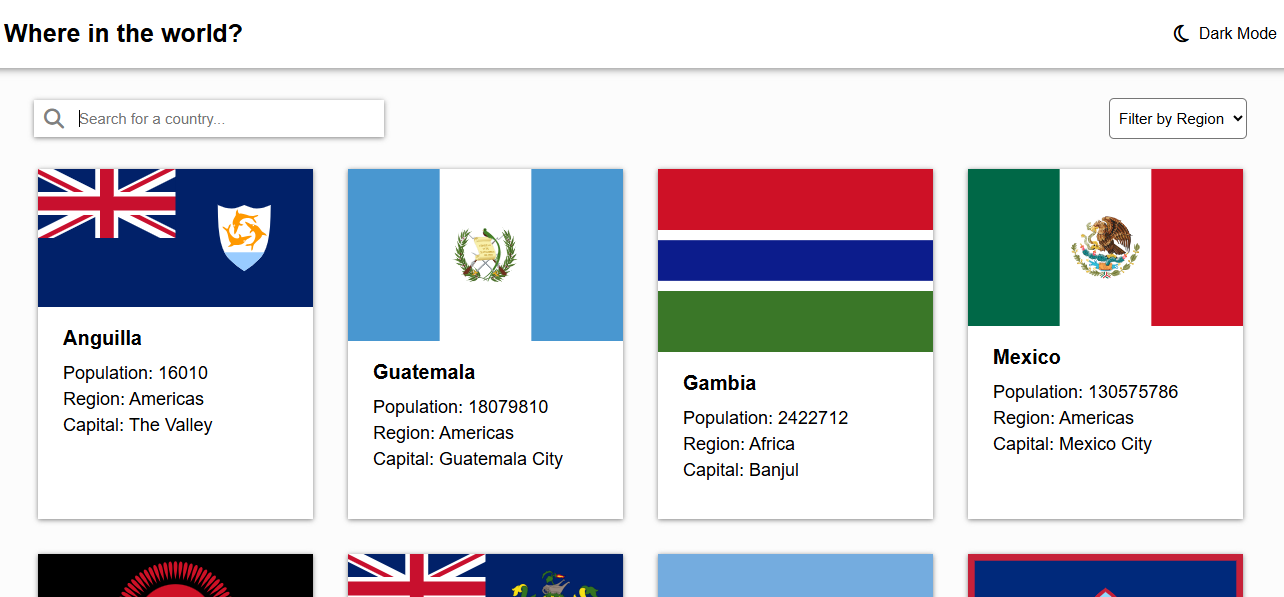
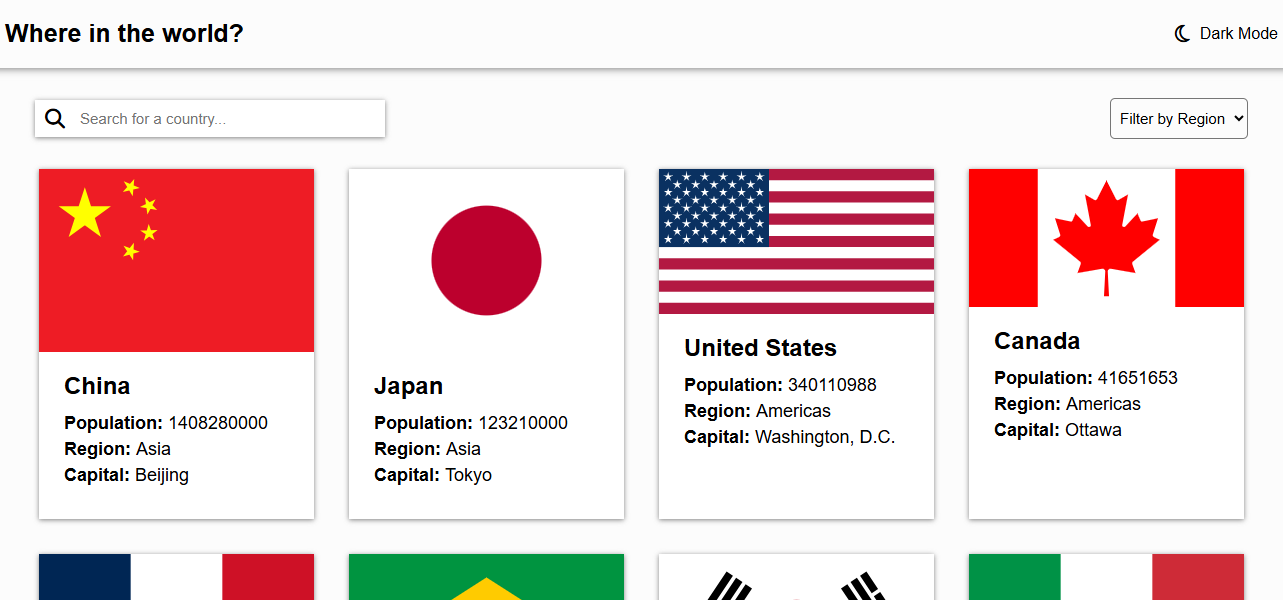
Pequenas alterações no layout do site

diff --git a/css/main.css b/css/main.css
@@ -491,7 +491,7 @@ a.es::before {
         flex-direction: column;
         align-items: center;
         max-height: none;
-        padding: 12px;
+        padding: 10px 5px 0px 5px;
     }
 
     #photo {
@@ -499,7 +499,7 @@ a.es::before {
     }
 
     #photo img {
-        width: 250px;
+        width: 300px;
         height: auto;
         margin-top: 20px;
     }

diff --git a/css/projects.css b/css/projects.css
@@ -116,12 +116,12 @@
 @media (max-width: 768px) {
     #cards-projects {
         grid-template-columns: 1fr;
-        padding: 0px 60px;
+        padding: 0px 45px;
     }
 }
 
 @media (max-width: 460px) {
     #cards-projects{
-        padding: 0px 45px;
+        padding: 0px 25px;
     }
 }
